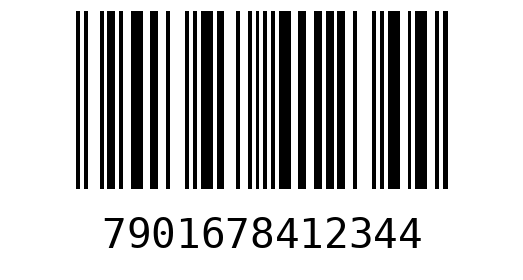
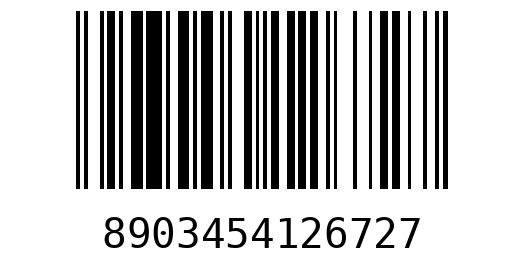
updated barcode Generator code

diff --git a/barcode_generator.py b/barcode_generator.py
@@ -9,7 +9,7 @@ from barcode.writer import ImageWriter
 
 try:
     # Make sure to pass the number as string
-    number = '7901678412347'
+    number = '8903454126727'
 
     # Since we are creating a EAN13 barcode, appropriate barcode format needs to be used
     barcode_format = barcode.get_barcode_class('ean13')
